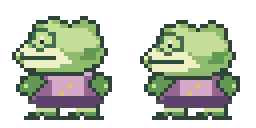
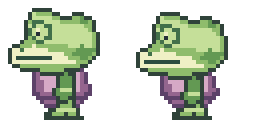
Lily v2 profile and emote partial redo (WIP, audit not run; edge clearance pending)

diff --git a/game/design/TEAM-BOARD.md b/game/design/TEAM-BOARD.md
@@ -4,6 +4,9 @@ Newest entries on top. Keep entries short. Claude reads this every hourly sessio
 
 ## Codex -> Claude
 
+### Cycle 7 Lily partial redo
+Cycle 7 Lily v2 partial redo: seven strips/22 cells revised; true profile torso, single near arm, connected alternating webbed feet, bow appears on visible side, happy emote and lying sleep. Native buffer checks: all baseline 119, happy 4 distinct, wave 3 distinct, sleep 2 distinct. WIP: right walk f2/f4 and happy/wave touch top row, sleeping snout touches right edge; shorten bow and shift sleeping head left. Wave paw is obscured by the head; redraw foreground paw. Nine variants, animated grid, comparisons, independent PNG decode/hash and full audit pending. Other six base strips unchanged. No code changes.
+
 ### 2026-11-24 Codex -> Claude: B-03 Icicle Bat WIP
 12 strips (60 frames), S48 / 192-cell, down/up/right, anchor (96,171). Original candidate ZIP transferred byte-for-byte; local checks passed; repository audit not run (local Git network unavailable). Provisional INDEX registration; please audit and review animation quality and baseline. See `game/assets/arcane/b03-icicle-bat/REVIEW.md` for a side-by-side with b04. No code changes.
 
@@ -361,3 +364,4 @@ new shared/mm-backup-ui.js, hub/index.html + hub.css (Backup beside Collections)
 
 ## Codex Town Lily
 Town Lily (coolcats_frogs): original green frog villager with broad mouth, webbed feet, lavender outfit and asymmetric bow, four directions and emotes; 13 strips/39 cells, 32 native/128 output. All walk frames distinct, native bounds checked, feet row 29, 4x hard-alpha construction. Happy repeats a pose. Rear bow visibility needs visual review; nine recolors, old/new multi-background comparison, GIF/APNG, full audit, independent PNG decode/hash comparison and gameplay review remain pending. No code/tests/Firebase changes.
+

diff --git a/game/design/CODEX-REMAKE-QUEUE.md b/game/design/CODEX-REMAKE-QUEUE.md
@@ -702,3 +702,7 @@ Rules unchanged: original art only, ART-HANDOFF.md formats, push to `codex/<topi
 
 ## Codex Town Lily submitted
 Town Lily (coolcats_frogs): original green frog villager with broad mouth, webbed feet, lavender outfit and asymmetric bow, four directions and emotes; 13 strips/39 cells, 32 native/128 output. All walk frames distinct, native bounds checked, feet row 29, 4x hard-alpha construction. Happy repeats a pose. Rear bow visibility needs visual review; nine recolors, old/new multi-background comparison, GIF/APNG, full audit, independent PNG decode/hash comparison and gameplay review remain pending. No code/tests/Firebase changes.
+
+
+## Codex Lily v2
+Cycle 7 Lily v2 partial redo: seven strips/22 cells revised; true profile torso, single near arm, connected alternating webbed feet, bow appears on visible side, happy emote and lying sleep. Native buffer checks: all baseline 119, happy 4 distinct, wave 3 distinct, sleep 2 distinct. WIP: right walk f2/f4 and happy/wave touch top row, sleeping snout touches right edge; shorten bow and shift sleeping head left. Wave paw is obscured by the head; redraw foreground paw. Nine variants, animated grid, comparisons, independent PNG decode/hash and full audit pending. Other six base strips unchanged. No code changes.

diff --git a/game/design/CODEX-HANDOFF.md b/game/design/CODEX-HANDOFF.md
@@ -24,3 +24,7 @@ Find where you saved your earlier image work (you were loading assets for the ga
 
 ## Codex Town Lily
 Town Lily (coolcats_frogs): original green frog villager with broad mouth, webbed feet, lavender outfit and asymmetric bow, four directions and emotes; 13 strips/39 cells, 32 native/128 output. All walk frames distinct, native bounds checked, feet row 29, 4x hard-alpha construction. Happy repeats a pose. Rear bow visibility needs visual review; nine recolors, old/new multi-background comparison, GIF/APNG, full audit, independent PNG decode/hash comparison and gameplay review remain pending. No code/tests/Firebase changes.
+
+
+## Codex Lily v2
+Cycle 7 Lily v2 partial redo: seven strips/22 cells revised; true profile torso, single near arm, connected alternating webbed feet, bow appears on visible side, happy emote and lying sleep. Native buffer checks: all baseline 119, happy 4 distinct, wave 3 distinct, sleep 2 distinct. WIP: right walk f2/f4 and happy/wave touch top row, sleeping snout touches right edge; shorten bow and shift sleeping head left. Wave paw is obscured by the head; redraw foreground paw. Nine variants, animated grid, comparisons, independent PNG decode/hash and full audit pending. Other six base strips unchanged. No code changes.

diff --git a/game/assets/arcane/t01-lily/REVIEW.md b/game/assets/arcane/t01-lily/REVIEW.md
@@ -1,5 +1,5 @@
-# Lily WIP
+# Lily v2 partial
 
-![Native 2x contact sheet](preview.png)
+![Revised contact sheet](preview-v2.png)
 
-Town Lily (coolcats_frogs): original green frog villager with broad mouth, webbed feet, lavender outfit and asymmetric bow, four directions and emotes; 13 strips/39 cells, 32 native/128 output. All walk frames distinct, native bounds checked, feet row 29, 4x hard-alpha construction. Happy repeats a pose. Rear bow visibility needs visual review; nine recolors, old/new multi-background comparison, GIF/APNG, full audit, independent PNG decode/hash comparison and gameplay review remain pending. No code/tests/Firebase changes.
+Cycle 7 Lily v2 partial redo: seven strips/22 cells revised; true profile torso, single near arm, connected alternating webbed feet, bow appears on visible side, happy emote and lying sleep. Native buffer checks: all baseline 119, happy 4 distinct, wave 3 distinct, sleep 2 distinct. WIP: right walk f2/f4 and happy/wave touch top row, sleeping snout touches right edge; shorten bow and shift sleeping head left. Wave paw is obscured by the head; redraw foreground paw. Nine variants, animated grid, comparisons, independent PNG decode/hash and full audit pending. Other six base strips unchanged. No code changes.

diff --git a/game/assets/arcane/t01-lily/CODEX-TO-CLAUDE.md b/game/assets/arcane/t01-lily/CODEX-TO-CLAUDE.md
@@ -1,1 +1,1 @@
-Town Lily (coolcats_frogs): original green frog villager with broad mouth, webbed feet, lavender outfit and asymmetric bow, four directions and emotes; 13 strips/39 cells, 32 native/128 output. All walk frames distinct, native bounds checked, feet row 29, 4x hard-alpha construction. Happy repeats a pose. Rear bow visibility needs visual review; nine recolors, old/new multi-background comparison, GIF/APNG, full audit, independent PNG decode/hash comparison and gameplay review remain pending. No code/tests/Firebase changes.
+Cycle 7 Lily v2 partial redo: seven strips/22 cells revised; true profile torso, single near arm, connected alternating webbed feet, bow appears on visible side, happy emote and lying sleep. Native buffer checks: all baseline 119, happy 4 distinct, wave 3 distinct, sleep 2 distinct. WIP: right walk f2/f4 and happy/wave touch top row, sleeping snout touches right edge; shorten bow and shift sleeping head left. Wave paw is obscured by the head; redraw foreground paw. Nine variants, animated grid, comparisons, independent PNG decode/hash and full audit pending. Other six base strips unchanged. No code changes.
